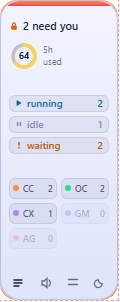
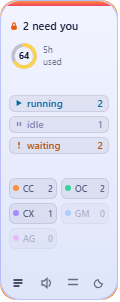
docs: demo GIF, social card, and a comparison to the alternatives
The static screenshot could not show the thing the app is for - the moment a
session flips to waiting - so the README now opens on a GIF of the pill moving
through the states, captured from the real UI with fixture data.

Adds docs/social-preview.png for the repository social preview (that setting is
web-only, so it still has to be uploaded by hand), and a table placing this
against agentpulse, AgentBar and the two agent-decks, since "another AI session
monitor" is a fair first reaction.

Also drops the debug outline the preview harness used to draw around the app,
which was ending up in published screenshots.

diff --git a/src/store/useMonitor.ts b/src/store/useMonitor.ts
@@ -85,6 +85,8 @@ export const useMonitor = create<MonitorState>((set, get) => ({
         );
       } else if (only === "idle") {
         sessions = sessions.map((s) => ({ ...s, state: "idle" as const, waiting_for: null }));
+      } else if (only === "input") {
+        sessions = sessions.filter((s) => s.state !== "awaiting-permission");
       } else if (only === "none") {
         sessions = [];
       }

diff --git a/src/main.tsx b/src/main.tsx
@@ -19,5 +19,4 @@ if (previewWidth || previewHeight) {
   const root = document.getElementById("root") as HTMLElement;
   if (previewWidth) root.style.width = `${previewWidth}px`;
   if (previewHeight) root.style.height = `${previewHeight}px`;
-  root.style.outline = "1px dashed rgba(255,0,0,.4)";
 }

diff --git a/README.md b/README.md
@@ -12,10 +12,13 @@ time, shows which sessions are running, idle or blocked on you, and how much of
 the Claude 5-hour plan window is gone. Everything is read from files those tools
 already write on your own machine: no backend, no network calls, no API keys.
 
-![The collapsed pill](docs/pill.png)
+![The pill moving through waiting, running and idle states](docs/demo.gif)
 
-Click through and it expands into the session list; the arrow on each row jumps
-straight to the terminal pane running that session.
+The surface never changes colour with state - only the accents do: the rail
+down the left edge, the glyph and its motion, and a ring around the whole pill
+when something is waiting on you. Click the list icon and it expands into the
+session list, where the arrow on each row jumps straight to the terminal pane
+running that session.
 
 | Expanded, light | Expanded, dark | Vertical strip |
 |---|---|---|
@@ -245,6 +248,25 @@ That produces `dist-windows/harness-monitor.exe` plus
 `dist-windows/harness-monitor-agent`, the Linux binary the exe launches through
 `wsl.exe`. Keep them side by side, or point at the agent with `HM_AGENT_PATH`;
 the distro comes from `HM_WSL_DISTRO`, else the first entry of `wsl.exe -l -q`.
+
+## Why not one of the others
+
+Several tools now watch AI coding sessions, and they are solving a different
+shape of the problem:
+
+| | Shape | Where it runs |
+|---|---|---|
+| **HarnessMonitor** | A floating pill or strip that interrupts you when a session finishes or blocks, and otherwise stays out of the way | Windows + WSL2, or Linux |
+| [agentpulse](https://github.com/jstuart0/agentpulse) | A full dashboard with prompts, responses and session history | Browser |
+| [AgentBar](https://github.com/scari/AgentBar) | Menu-bar usage tracking | macOS |
+| [agent-deck](https://github.com/asheshgoplani/agent-deck) | A TUI session manager - launch and switch sessions | Terminal |
+| [AgentDeck](https://github.com/puritysb/AgentDeck) | A physical control surface, one key per session | Stream Deck and friends |
+
+Pick this one if you want to be told rather than to watch, if you are on
+Windows with your agents inside WSL, or if you want five harnesses in one place
+with honest labelling of how much each one actually reports. Pick a dashboard
+if you want to read transcripts, or the TUI if you want to drive sessions from
+one place.
 
 ## Documentation
 
